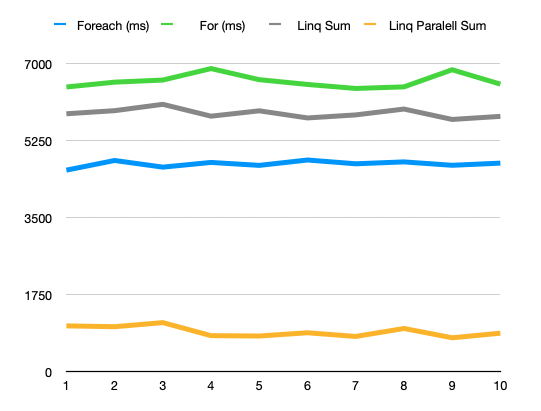
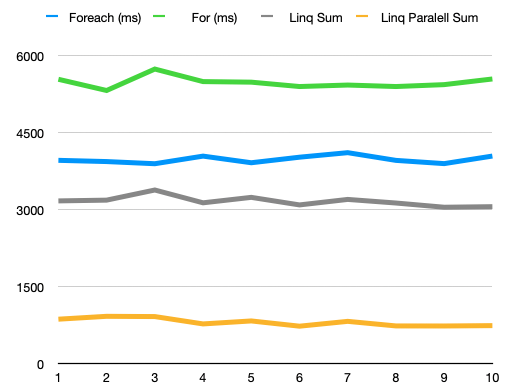
updated summing write up, code and results based on feedback

diff --git a/Experiments/Summing numbers linq vs foreach/code/Program.cs b/Experiments/Summing numbers linq vs foreach/code/Program.cs
@@ -17,16 +17,20 @@ namespace Program {
             forSum(numbers);
             linqSum(numbers);
             linqParallelSum(numbers);
-            
+            linqForEach(numbers);
+            linqForAllParalell(numbers);
+            Console.WriteLine($"---------------Runs---------------");
             // Real tests
             foreach (var i in Enumerable.Range(1, 10))
             {
-                Console.WriteLine($"---------------Run {i}---------------");
+                
                 var foreachSumTime = foreachSum(numbers);
                 var forSumTime = forSum(numbers);
                 var linqSumTime = linqSum(numbers);
                 var linqParallelSumTime = linqParallelSum(numbers);
-                Console.WriteLine($"| {foreachSumTime} | {forSumTime} | {linqSumTime} |  {linqParallelSumTime} |");
+                var linqForEachTime = linqForEach(numbers);
+                var linqForAllParalellTime = linqForAllParalell(numbers);
+                Console.WriteLine($"| {foreachSumTime} | {forSumTime} | {linqSumTime} |  {linqParallelSumTime} | {linqForEachTime} | {linqForAllParalellTime} |");
             }
         }
 
@@ -63,7 +67,29 @@ namespace Program {
         {
             var sw = new Stopwatch();
             sw.Start();
-            var sum = numbers.Sum(x => x);
+            var sum = numbers.Sum();
+            sw.Stop();
+            //Console.WriteLine($"Linq Sum: {sum}, Elapsed: {sw.ElapsedMilliseconds}ms");
+            return sw.ElapsedMilliseconds;
+        }
+
+        public static long linqForEach(List<long> numbers)
+        {
+            var sw = new Stopwatch();
+            sw.Start();
+            var sum = 0L;
+            numbers.ForEach(x => sum += x);
+            sw.Stop();
+            //Console.WriteLine($"linqForEach Sum: {sum}, Elapsed: {sw.ElapsedMilliseconds}ms");
+            return sw.ElapsedMilliseconds;
+        }
+
+        public static long linqForAllParalell(List<long> numbers)
+        {
+            var sw = new Stopwatch();
+            sw.Start();
+            var sum = 0L;
+            numbers.AsParallel().ForAll(x => sum += x);
             sw.Stop();
             //Console.WriteLine($"Linq Sum: {sum}, Elapsed: {sw.ElapsedMilliseconds}ms");
             return sw.ElapsedMilliseconds;

diff --git a/Experiments/Summing numbers linq vs foreach/Writeup.md b/Experiments/Summing numbers linq vs foreach/Writeup.md
@@ -4,30 +4,30 @@ Loops are of particular interest when seeking to optimize for sustainability and
 While it is well known that loops are constructs that allows us to do things many times,
 what is sometimes forgotten is that the thing in the loop tends to be done many times.
 
-In c# three common ways, there are of course others, to do loops is the `for`, `foreach` loops through `Linq`
+In c# three common ways, there are of course others, to iterate over loops is the `for`, `foreach` loops through `Linq`
 which provides ways to do all kinds of things to collections, including looping over them.
 
 In order to study the performance and sustainability of each of these methods to loop over the elements in a list
 we will look use each method to get the sum of a large amount of numbers. To do this we have created a .Net program that
 sums the numbers 1-1000000000 using a foreach loop, a for loop and Linqs Sum() method. Additionally we use Linq's way to parallelize the Summing by calling `AsParallel()` on the collection before summing, just to see what happens.
  
-The results for running the experiments are shown below. As we can see, the traditional for-loop was by far the slowest opting, while Linq's `Sum()` was about halfway between the for and the foreach loop. Linq's parallel was significantly faster than any of the other methods. However, since the parallel in theory might bee accessing multiple cores, further studies are needed to make any claim in the energy efficiency of this method. Until then it seems likely that the foreach loop is generally a good choice when looping over large lists.
+The results for running the experiments are shown below. As we can see, the traditional for-loop was by far the slowest option followed not all that closely by the foreach lopp. Linq's `Sum()` the fastest non-paralell option with a reasonable margin. Using Linq's `AsParallel()` do additions concurrently, however, was significantly faster than any of the other methods. However, since the parallel may utilize multiple cores, further studies are needed to make any claim on the energy efficiency of this method. Until then it seems likely that the Linq is  generally a good choice when looping over large lists.
 
 
 |Run #|Foreach (ms)  | For (ms)         | Linq Sum   | Linq Parallel Sum |
 |-----|--------------|------------------|------------|-------------------|
-|1    | 4579         | 6465             | 5858       | 1046              |
-|2    | 4798         | 6575             | 5928       | 1027              |
-|3    | 4647         | 6623             | 6072       | 1120              |
-|4    | 4754         | 6883             | 5803       |  824              |
-|5    | 4687         | 6631             | 5925       |  816              |
-|6    | 4809         | 6523             | 5763       |  890              |
-|7    | 4723         | 6432             | 5832       |  806              |
-|8    | 4766         | 6468             | 5965       |  987              |
-|9    | 4689         | 6856             | 5729       |  776              |
-|10   | 4738         | 6530             | 5799       |  880              |
+|  1  | 3960         | 5536             | 3171       |  871              |
+|  2  | 3936         | 5318             | 3186       |  927              |
+|  3  | 3894         | 5735             | 3383       |  922              |
+|  4  | 4042         | 5491             | 3134       |  779              |
+|  5  | 3913         | 5480             | 3240       |  837              |
+|  6  | 4021         | 5395             | 3093       |  735              |
+|  7  | 4109         | 5424             | 3200       |  829              |
+|  8  | 3959         | 5395             | 3130       |  740              |
+|  9  | 3896         | 5432             | 3048       |  739              |
+| 10  | 4043         | 5542             | 3059       |  746              |
 |-----|--------------|------------------|------------|-------------------|
-| Avg | 4719	     | 6599	            | 5867	     | 917               |
+| Avg | 3977         | 5475             | 3164       |  812              |
 
 
 ![summing results as graph](summing_results_graph.png)
@@ -36,5 +36,5 @@ Are there any interesting looping methods I missed in this study?
 
 What are some other common tasks that can be done in several different ways with possible performance and energy use implications?
 
-For those interested, the code for this experiment is available in the file [Program.cs](https://raw.githubusercontent.com/kentis/green_code_experiments/refs/heads/main/Experiments/Summing%20numbers%20linq%20vs%20foreach/code/Program.cs?token=GHSAT0AAAAAACZ47PO5AINMDYCBSHYHTGHAZ4UUUUQ), feel free to submit an issue or pull-request if you feel that this experiment should be improved. I re-ran this experiment while varying the order the different ways to parse the dates to ensure consistent results and reduce sources of bias. There did not seem to be any significantly different results from what is presented above.
+For those interested, the code for this experiment is available in the file [Program.cs](https://raw.githubusercontent.com/kentis/green_code_experiments/refs/heads/summing_numbers/Experiments/Summing%20numbers%20linq%20vs%20foreach/code/Program.cs), feel free to submit an issue or pull-request if you feel that this experiment should be improved. I re-ran this experiment while varying the order the different ways to parse the dates to ensure consistent results and reduce sources of bias. There did not seem to be any significantly different results from what is presented above.
 
